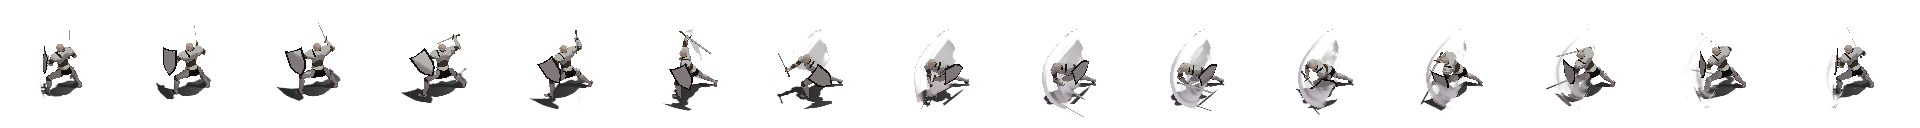
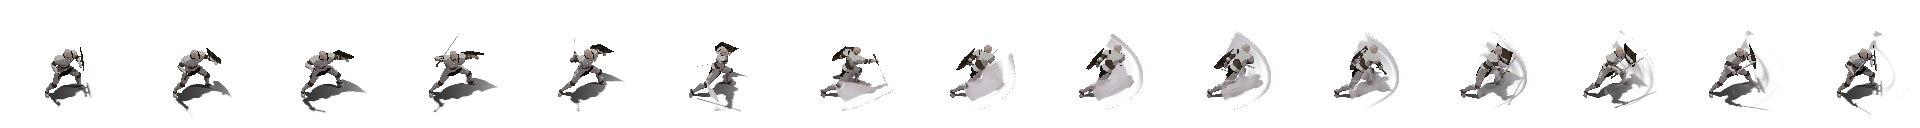
Swap Lev's left/right sprites back and render him 1.5x bigger
Left and right were still swapped after the row-mapping fix (row0 is
actually the east/right-facing frame, row4 is west/left, not the other
way round) — swapped the two labels back to match.

Also added a per-character dispScale (1.5 for lev) applied to the fixed
68px display height used for both the local player and other-player
sprites, so Lev renders noticeably larger than the other classes as
requested.

diff --git a/js/pixi-world.js b/js/pixi-world.js
@@ -689,7 +689,7 @@ function _updateOtherPlayers(pulse) {
       const img   = cache?.[key];
       const fw    = img?.frameW || def.frameW || 64;
       const fh    = img?.frameH || def.frameH || 64;
-      const dh = 68, dw = dh * fw / fh;
+      const dh = 68 * (def.dispScale || 1), dw = dh * fw / fh;
       spr.width = dw; spr.height = dh;
       spr.x = -dw / 2; spr.y = -dh * 0.62;
       spr.visible = true;
@@ -799,7 +799,7 @@ function _updatePlayer(dt) {
     const img   = cache?.[key];
     const fw    = img?.frameW || def.frameW || 64;
     const fh    = img?.frameH || def.frameH || 64;
-    const dh = 68, dw = dh * fw / fh;
+    const dh = 68 * (def.dispScale || 1), dw = dh * fw / fh;
     _plSpr.width = dw; _plSpr.height = dh;
     _plSpr.x = player.x - dw / 2;
     _plSpr.y = player.y - dh * 0.62;

diff --git a/js/sprites.js b/js/sprites.js
@@ -91,6 +91,7 @@ const SPRITE_DEF = {
   },
   lev: {
     frameW: 128, frameH: 128,
+    dispScale: 1.5,
     anims: {
       'front-idle':   { src:'images/Lev/Front - Idle.png',      cols:15, rows:1, n:15, fps:7,  loop:true  },
       'back-idle':    { src:'images/Lev/Back - Idle.png',        cols:15, rows:1, n:15, fps:7,  loop:true  },
